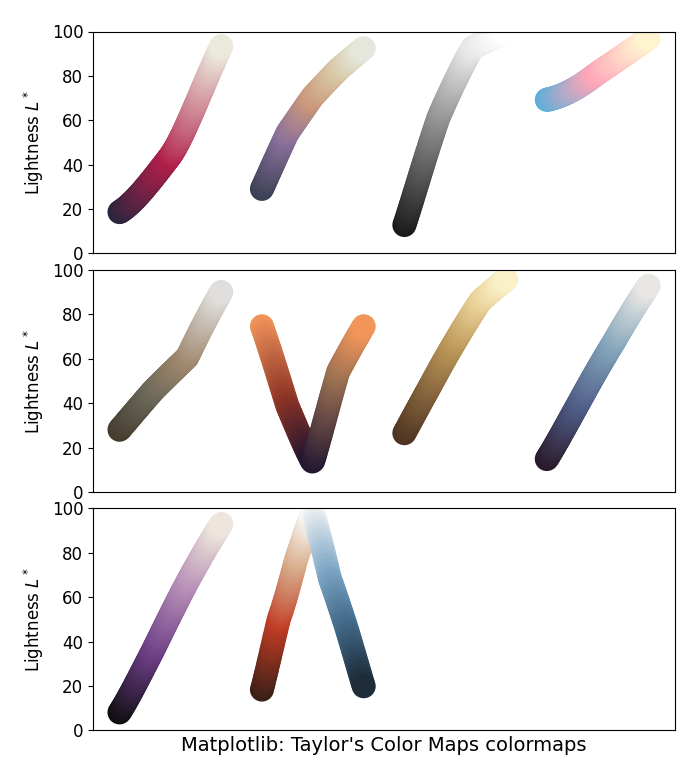
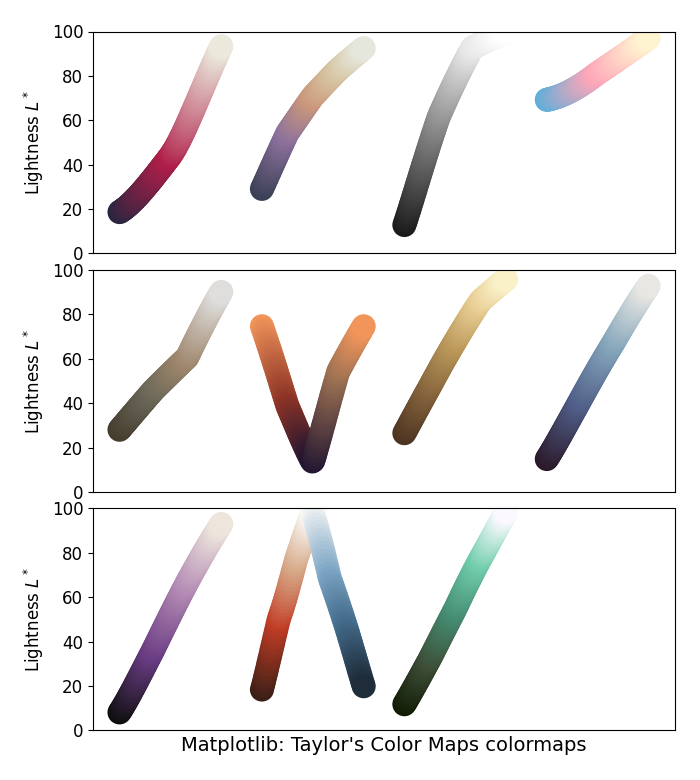
Added life of a showgirl

Changed region(s): [[0.54, 0.6462, 0.72, 0.9231]]

diff --git a/swiftascmaps/make_cmap.py b/swiftascmaps/make_cmap.py
@@ -3,7 +3,13 @@ Wrapper function for making color maps from lists
 of colors.
 """
 
-from matplotlib.cm import register_cmap
+try:
+    from matplotlib import colormaps
+    register_cmap = colormaps.register
+except ImportError:
+    # Backwards compatibility
+    from matplotlib.cm import register_cmap
+
 from matplotlib.colors import LinearSegmentedColormap
 from typing import List, Tuple
 

diff --git a/swiftascmaps/__init__.py b/swiftascmaps/__init__.py
@@ -55,3 +55,6 @@ speak_now_tv, speak_now_tv_r = make_custom_cmap("speak_now_tv", colors.speak_now
 nineteen_eighty_nine_tv, nineteen_eighty_nine_tv_r = make_custom_cmap(
     "nineteen_eighty_nine_tv", colors.nineteen_eighty_nine_tv
 )
+life_of_a_showgirl, life_of_a_showgirl_r = make_custom_cmap(
+    "life_of_a_showgirl", colors.life_of_a_showgirl
+)

diff --git a/swiftascmaps/colors.py b/swiftascmaps/colors.py
@@ -98,3 +98,13 @@ speak_now_tv = hex_to_rgb(
 nineteen_eighty_nine_tv = hex_to_rgb(
     ["#3A1F16", "#C13C25", "#D7AB8A", "#FBFAF8", "#7EA7C5", "#446D8D", "#1F2D3B"]
 )
+
+life_of_a_showgirl = hex_to_rgb(
+    [
+        "#111B04",
+        "#3C4D35",
+        "#458C72",
+        "#70CEAC",
+        "#FBF9FE"
+    ]
+)

diff --git a/test_maps.py b/test_maps.py
@@ -45,7 +45,8 @@ plot_color_gradients("Matplotlib: Taylor's Color Maps",
     "swift.fearless_tv",
     "swift.midnights",
     "swift.speak_now_tv",
-    "swift.nineteen_eighty_nine_tv"
+    "swift.nineteen_eighty_nine_tv",
+    "swift.life_of_a_showgirl"
 ]
 )
 

diff --git a/swiftascmaps/__version__.py b/swiftascmaps/__version__.py
@@ -1,1 +1,1 @@
-__version__ = "1.4.0"
+__version__ = "1.6.0"
